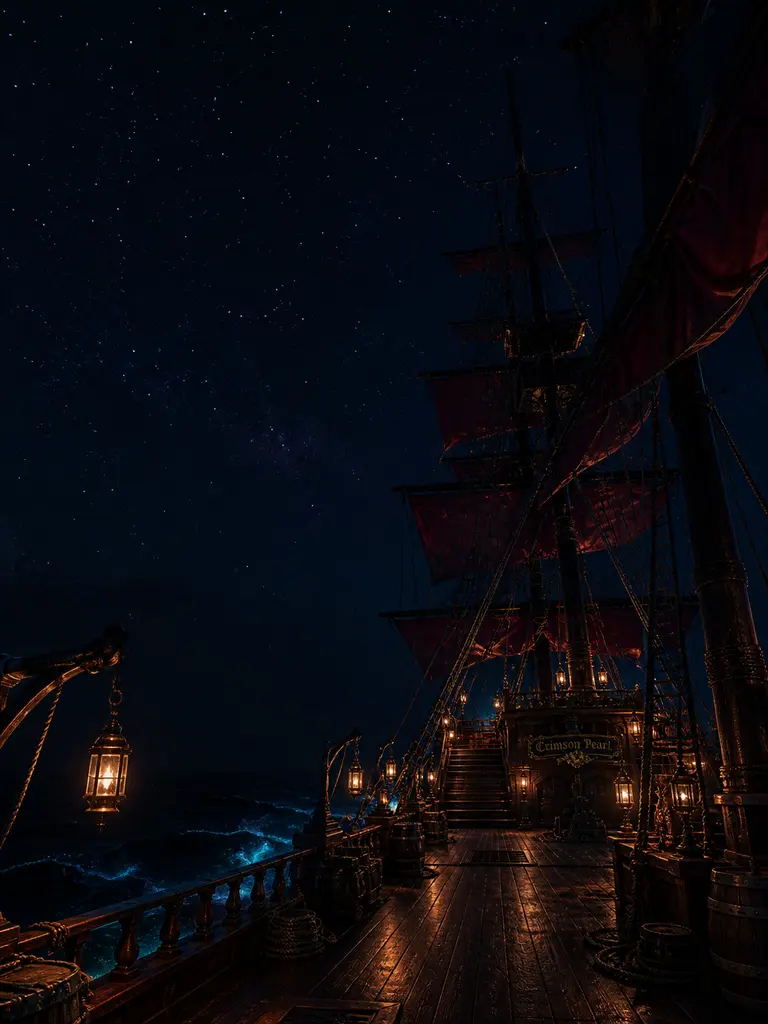
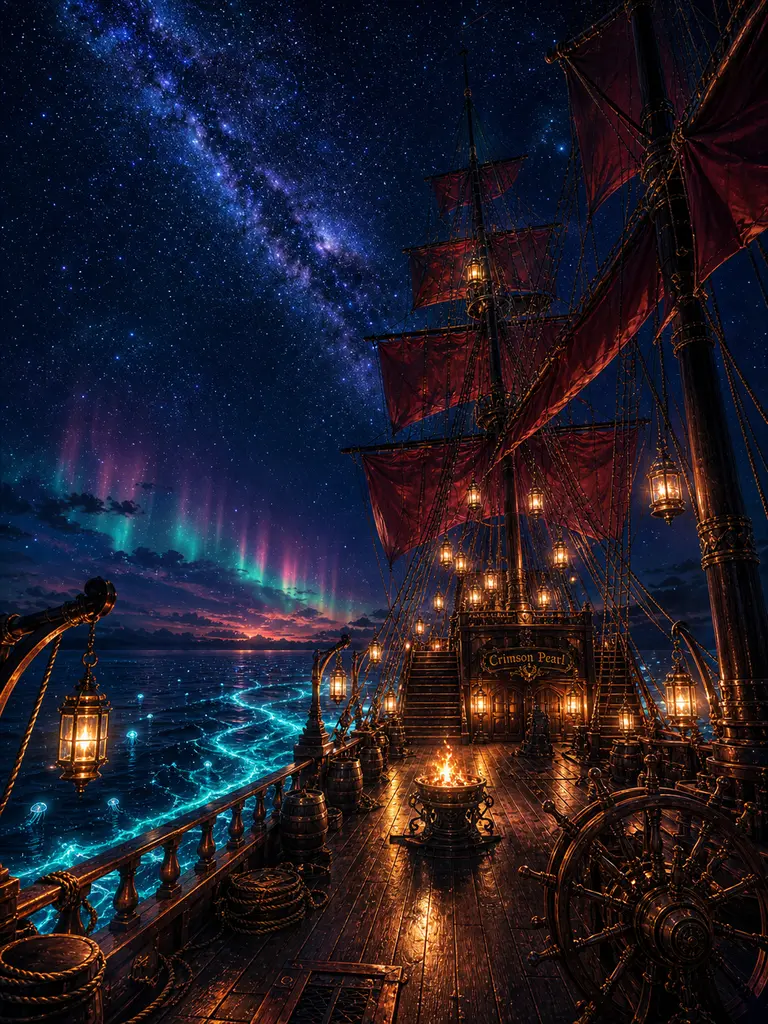
feat: crimson_pearl_night 明度UP版反映 + 未DL容量予測 + BGMシャッフル履歴 (cache buster 20260502t)
- crimson_pearl_night.png 明度UP版 (3:4 1086×1448) 反映 + thumb 再生成
- オフライン保存: HEAD requestで全URLサイズ計測 + localStorage memo化、 各カテゴリ「47.4 / 250 MB」 形式で 保存済/予測総量 表示
- マスター/カテゴリ別ボタンに容量併記 (例「📥 73件 (73 MB)」)
- BGMシャッフル: 直近5曲履歴 LRU を localStorage 永続化、 queue再生成時に最近曲を後半半分に push (野沢さん指摘「何曲か後に同じ曲」 対策)

diff --git a/script.js b/script.js
@@ -5346,7 +5346,7 @@ const STORY_LOCATION_INLINE_CONFIG = {
 
 // 画像 cache-buster 自動付与: アセット差し替え時に SW + browser cache を確実に invalidate
 // SW_VERSION や cache buster bump と合わせて IMG_CACHE_VERSION も bump すること
-const IMG_CACHE_VERSION = '20260502s';
+const IMG_CACHE_VERSION = '20260502t';
 function _appendImgCacheBuster(url) {
   if (!url || typeof url !== 'string') return url;
   if (url.includes('?v=' + IMG_CACHE_VERSION)) return url;  // 既に付いてる
@@ -5514,42 +5514,81 @@ async function _downloadAllAssets(progressCb, urlList) {
   return { done, total, succeeded, skipped };
 }
 
-// M4: cache 件数 + 容量 を計測 — 渡された URL list のうち hit したものについて、
-// 件数と合計バイト数を返す。 容量取得は Content-Length 優先、 失敗時 blob().size。
-// 並列5本で全URL検査、 全URL同時 fetch しても Cache Storage 内なので軽量。
-async function _measureCacheBytes(urls) {
-  if (!urls || urls.length === 0) return { cached: 0, bytes: 0 };
-  let cached = 0, bytes = 0;
-  const CONCURRENCY = 5;
+// M4: URL → bytes 永続化マップ。 一度測ったら localStorage に保存、 以後 instant に参照可能。
+// 静的アセットは URL 不変なら size 不変なので safely cache 可能。
+const _OFFLINE_URL_BYTES = new Map();
+const _OFFLINE_BYTES_LS_KEY = 'prism-offline-url-bytes';
+try {
+  const stored = JSON.parse(localStorage.getItem(_OFFLINE_BYTES_LS_KEY) || '{}');
+  for (const k in stored) { if (typeof stored[k] === 'number' && stored[k] > 0) _OFFLINE_URL_BYTES.set(k, stored[k]); }
+} catch (e) {}
+function _persistOfflineBytes() {
+  try {
+    const obj = {};
+    for (const [k, v] of _OFFLINE_URL_BYTES) obj[k] = v;
+    localStorage.setItem(_OFFLINE_BYTES_LS_KEY, JSON.stringify(obj));
+  } catch (e) {}
+}
+// 1 URL の容量を取得。 優先順位:
+//   (1) メモ済 _OFFLINE_URL_BYTES
+//   (2) Cache Storage に既にあれば response から Content-Length or blob().size
+//   (3) HEAD リクエスト (ネットワーク必要だが本体DLしないので軽い)
+async function _fetchUrlBytes(url) {
+  if (_OFFLINE_URL_BYTES.has(url)) return _OFFLINE_URL_BYTES.get(url);
+  let bytes = 0;
+  // (2) cache 経由
+  try {
+    const r = await caches.match(url);
+    if (r) {
+      const cl = r.headers && r.headers.get && r.headers.get('content-length');
+      if (cl && /^\d+$/.test(cl)) bytes = parseInt(cl, 10);
+      else { try { bytes = (await r.clone().blob()).size || 0; } catch (e) {} }
+    }
+  } catch (e) {}
+  // (3) HEAD ネットワーク
+  if (bytes <= 0) {
+    try {
+      const r = await fetch(url, { method: 'HEAD', credentials: 'omit', cache: 'no-store' });
+      if (r && r.ok) {
+        const cl = r.headers.get('content-length');
+        if (cl && /^\d+$/.test(cl)) bytes = parseInt(cl, 10);
+      }
+    } catch (e) {}
+  }
+  if (bytes > 0) _OFFLINE_URL_BYTES.set(url, bytes);
+  return bytes;
+}
+// urls を並列で計測 → cached件数 + cachedBytes + totalBytes(全URLの合計サイズ予測)。
+// concurrency 高め (20) で 250URLs 程度なら数秒で完了。
+async function _measureUrlsTotal(urls) {
+  if (!urls || urls.length === 0) return { cached: 0, cachedBytes: 0, totalBytes: 0 };
+  let cached = 0, cachedBytes = 0, totalBytes = 0;
+  const CONCURRENCY = 20;
   let idx = 0;
   async function worker() {
     while (idx < urls.length) {
       const myIdx = idx++;
       const url = urls[myIdx];
+      const sz = await _fetchUrlBytes(url);
+      totalBytes += sz;
       try {
         const r = await caches.match(url);
-        if (!r) continue;
-        cached++;
-        // Content-Length が立っていればそれが最も軽い
-        const cl = r.headers && r.headers.get && r.headers.get('content-length');
-        if (cl && /^\d+$/.test(cl)) {
-          bytes += parseInt(cl, 10);
-        } else {
-          // fallback: blob で実体サイズ (重いが正確)
-          try {
-            const blob = await r.clone().blob();
-            bytes += blob.size || 0;
-          } catch (e) {}
-        }
+        if (r) { cached++; cachedBytes += sz; }
       } catch (e) {}
     }
   }
   await Promise.all(Array.from({ length: CONCURRENCY }, () => worker()));
-  return { cached, bytes };
+  _persistOfflineBytes();
+  return { cached, cachedBytes, totalBytes };
 }
 // 後方互換: 件数だけ
 async function _countCachedInUrls(urls) {
-  return (await _measureCacheBytes(urls)).cached;
+  return (await _measureUrlsTotal(urls)).cached;
+}
+// 後方互換: cached + cached容量だけ (HEAD なし、 ローカルcache のみ)
+async function _measureCacheBytes(urls) {
+  const r = await _measureUrlsTotal(urls);
+  return { cached: r.cached, bytes: r.cachedBytes };
 }
 function _formatBytes(b) {
   if (!b || b <= 0) return '0 MB';
@@ -5597,43 +5636,54 @@ async function _refreshOfflineStatus(m) {
     statusEl.textContent = '';
     return;
   }
-  // カテゴリ別に並列で cache 件数 + バイト集計
-  const measures = await Promise.all(_OFFLINE_CAT_KEYS.map(k => _measureCacheBytes(cats[k])));
+  // カテゴリ別に並列で cache 件数 + 全URL予測バイト集計 (HEAD でメモ化、 2回目以降 instant)
+  const measures = await Promise.all(_OFFLINE_CAT_KEYS.map(k => _measureUrlsTotal(cats[k])));
   const breakdown = {};
-  let cached = 0, bytesTotal = 0;
+  let cached = 0, cachedBytes = 0, totalBytes = 0;
   _OFFLINE_CAT_KEYS.forEach((k, i) => {
-    breakdown[k] = { total: cats[k].length, cached: measures[i].cached, bytes: measures[i].bytes };
+    breakdown[k] = {
+      total: cats[k].length,
+      cached: measures[i].cached,
+      cachedBytes: measures[i].cachedBytes,
+      totalBytes: measures[i].totalBytes,
+    };
     cached += measures[i].cached;
-    bytesTotal += measures[i].bytes;
+    cachedBytes += measures[i].cachedBytes;
+    totalBytes += measures[i].totalBytes;
   });
   const missing = total - cached;
-  // breakdown UI 更新
+  const missingBytes = Math.max(0, totalBytes - cachedBytes);
+  // breakdown UI 更新 — 各行に「件数 / 容量 (済 + 予測総量)」 を表示
   for (const cat of _OFFLINE_CAT_KEYS) {
     const row = m.querySelector(`.settings-offline-cat[data-category="${cat}"]`);
     if (!row) continue;
     const countEl = row.querySelector('.settings-offline-cat-count');
     const sizeEl  = row.querySelector('.settings-offline-cat-size');
     const catBtn  = row.querySelector('.settings-offline-cat-btn');
-    const t = breakdown[cat].total, c = breakdown[cat].cached, miss = t - c;
+    const b = breakdown[cat];
+    const t = b.total, c = b.cached, miss = t - c;
+    const missBytes = Math.max(0, b.totalBytes - b.cachedBytes);
     if (countEl) {
-      if (t === 0) {
-        countEl.textContent = '— / —';
-      } else if (miss <= 0) {
-        countEl.innerHTML = `✅ <b>${t}</b>件`;
-      } else {
-        countEl.innerHTML = `<b>${c}</b> / <b>${t}</b>`;
-      }
+      if (t === 0) countEl.textContent = '— / —';
+      else if (miss <= 0) countEl.innerHTML = `✅ <b>${t}</b>件`;
+      else countEl.innerHTML = `<b>${c}</b> / <b>${t}</b>`;
     }
     if (sizeEl) {
-      if (t === 0 || c === 0) sizeEl.textContent = '';
-      else sizeEl.textContent = _formatBytes(breakdown[cat].bytes);
+      // 0件 → 空
+      // 全DL済 → 容量だけ (例 "47.4 MB")
+      // 部分DL → "47.4 / 250 MB"
+      // 未DL  → "≈ 250 MB"
+      if (t === 0) sizeEl.textContent = '';
+      else if (miss <= 0) sizeEl.textContent = _formatBytes(b.cachedBytes);
+      else if (c > 0) sizeEl.textContent = `${_formatBytes(b.cachedBytes)} / ${_formatBytes(b.totalBytes)}`;
+      else sizeEl.textContent = `≈ ${_formatBytes(b.totalBytes)}`;
     }
     if (catBtn) {
       if (t === 0 || miss <= 0) {
         catBtn.hidden = true;
       } else {
         catBtn.hidden = false;
-        catBtn.textContent = `📥 ${miss}件`;
+        catBtn.textContent = `📥 ${miss}件 (${_formatBytes(missBytes)})`;
       }
     }
   }
@@ -5641,7 +5691,7 @@ async function _refreshOfflineStatus(m) {
   if (missing <= 0) {
     // 全DL済み: マスター ボタン非表示
     dlBtn.style.display = 'none';
-    statusEl.innerHTML = `✅ <b>全 ${total} 件</b> 保存済み (合計 <b>${_formatBytes(bytesTotal)}</b>)`;
+    statusEl.innerHTML = `✅ <b>全 ${total} 件</b> 保存済み (合計 <b>${_formatBytes(cachedBytes)}</b>)`;
     // ストレージ使用量を併記 (取れる環境のみ)
     if (navigator.storage && navigator.storage.estimate) {
       try {
@@ -5653,14 +5703,13 @@ async function _refreshOfflineStatus(m) {
       } catch (e) {}
     }
   } else {
-    // 未DLあり: マスター ボタン表示
+    // 未DLあり: マスター ボタン表示 (容量併記)
     dlBtn.style.display = '';
+    dlBtn.textContent = `📥 全 ${missing} 件 (${_formatBytes(missingBytes)}) をまとめてDL`;
     if (cached > 0) {
-      dlBtn.textContent = `📥 全 ${missing} 件をまとめてDL`;
-      statusEl.innerHTML = `保存済み <b>${cached}</b> / <b>${total}</b> 件 (未保存 ${missing} 件 / 保存済 ${_formatBytes(bytesTotal)})`;
+      statusEl.innerHTML = `保存済み <b>${cached}</b> / <b>${total}</b> 件 (${_formatBytes(cachedBytes)} / 全 ${_formatBytes(totalBytes)})`;
     } else {
-      dlBtn.textContent = `📥 全 ${total} 件をまとめてDL`;
-      statusEl.innerHTML = `<b>${total}</b> 件のアセット (下のカテゴリ別DLでも個別保存可能)`;
+      statusEl.innerHTML = `<b>${total}</b> 件のアセット (DL予測 <b>${_formatBytes(totalBytes)}</b>)`;
     }
   }
 }
@@ -6178,6 +6227,11 @@ let bgmCurrentId = localStorage.getItem("prism-bgm-current") || BGM_LIST[0].id;
 // v1.1.3: bgmMode (sequence/random/repeat) は shuffle(bool) + repeat('off'|'all'|'one') に分離
 let bgmShuffle = localStorage.getItem("prism-bgm-shuffle") === "on";
 let bgmRepeat = localStorage.getItem("prism-bgm-repeat") || 'off'; // 'off'|'all'|'one'
+// 直近 N 曲履歴 — シャッフル queue 再生成時に「最近再生した曲が新 queue 前半に来る」 違和感を防ぐ
+const BGM_RECENT_HISTORY_SIZE = 5;
+let bgmRecentHistory = [];
+try { bgmRecentHistory = JSON.parse(localStorage.getItem("prism-bgm-recent") || '[]'); } catch (e) { bgmRecentHistory = []; }
+if (!Array.isArray(bgmRecentHistory)) bgmRecentHistory = [];
 // v1.2.3: shuffle はキュー方式 (Fisher-Yates で全曲シャッフル → 順に消化 → 枯れたら再シャッフル)。直前曲との連続反復を構造的に防ぐ
 let bgmShuffleQueue = [];
 try { bgmShuffleQueue = JSON.parse(localStorage.getItem("prism-bgm-shuffle-queue") || '[]'); } catch (e) { bgmShuffleQueue = []; }
@@ -6448,13 +6502,43 @@ function bgmToggle() {
   else playBgm(bgmCurrentId);
 }
 
-// Fisher-Yates shuffle で id 配列をランダム並べ替え。avoidFirstId が先頭に来たら2番目と入替(連続反復防止)
+// 再生開始した曲を recent history に記録 (LRU、 最新が末尾)
+function _bgmRememberPlayed(id) {
+  if (!id) return;
+  bgmRecentHistory = bgmRecentHistory.filter(x => x !== id);
+  bgmRecentHistory.push(id);
+  while (bgmRecentHistory.length > BGM_RECENT_HISTORY_SIZE) bgmRecentHistory.shift();
+  try { localStorage.setItem("prism-bgm-recent", JSON.stringify(bgmRecentHistory)); } catch (e) {}
+}
+
+// Fisher-Yates shuffle で id 配列をランダム並べ替え。
+// 改良 (2026-05-02): avoidFirstId だけでなく直近 BGM_RECENT_HISTORY_SIZE 曲を 「新queue 前半に置かない」 ようにする。
+// → 12曲中 5曲先まで「同じ曲」 が来ない感覚的均等性を確保 (野沢さん指摘「何曲か後にすぐ同じ曲が来る」)。
 function _bgmGenShuffleQueue(list, avoidFirstId) {
   const ids = list.map(b => b.id);
+  // Fisher-Yates 標準シャッフル
   for (let i = ids.length - 1; i > 0; i--) {
     const j = Math.floor(Math.random() * (i + 1));
     [ids[i], ids[j]] = [ids[j], ids[i]];
   }
+  // 直近再生した曲 + avoidFirstId を「最近曲」 set に集める
+  const recent = new Set(bgmRecentHistory);
+  if (avoidFirstId) recent.add(avoidFirstId);
+  // queue が短すぎる (recent + 1 以下) なら spreading 諦め (やってもループするだけ)
+  if (ids.length > 2 && recent.size > 0 && ids.length > recent.size) {
+    const halfPoint = Math.ceil(ids.length / 2);
+    // 前半 (0..halfPoint) を走査、 recent 入りは 後半 (halfPoint..N-1) の non-recent 位置と swap
+    for (let i = 0; i < halfPoint; i++) {
+      if (!recent.has(ids[i])) continue;
+      // 後半で recent でない位置を探す
+      let swapIdx = -1;
+      for (let k = ids.length - 1; k >= halfPoint; k--) {
+        if (!recent.has(ids[k])) { swapIdx = k; break; }
+      }
+      if (swapIdx > 0) [ids[i], ids[swapIdx]] = [ids[swapIdx], ids[i]];
+    }
+  }
+  // 追加保護: 万一先頭に avoidFirstId が来てたら 1 と swap (recent処理で大体は弾けてるはず)
   if (avoidFirstId && ids.length > 1 && ids[0] === avoidFirstId) {
     [ids[0], ids[1]] = [ids[1], ids[0]];
   }
@@ -6569,6 +6653,8 @@ bgmAudio.addEventListener('play', () => {
   if (bgmAudio.dataset.bgmPlayLogged === bgmCurrentId) return;
   bgmAudio.dataset.bgmPlayLogged = bgmCurrentId;
   _logBgmEvent('play', bgmCurrentId);
+  // ランダム queue 再生成時の repeat 防止用、 再生開始した曲を履歴に記録
+  _bgmRememberPlayed(bgmCurrentId);
 });
 bgmAudio.addEventListener('ended', () => {
   localStorage.setItem('prism-bgm-last-time', '0');

diff --git a/index.html b/index.html
@@ -24,8 +24,8 @@
 <link rel="icon" href="/images/icons/icon-32.png" type="image/png" sizes="32x32">
 <link rel="icon" href="/images/icons/icon-16.png" type="image/png" sizes="16x16">
 <link rel="apple-touch-icon" href="/images/icons/icon-180.png">
-<link rel="manifest" href="/manifest.json?v=20260502s25">
-<link rel="stylesheet" href="/style.css?v=20260502s">
+<link rel="manifest" href="/manifest.json?v=20260502t25">
+<link rel="stylesheet" href="/style.css?v=20260502t">
 <script src="https://www.gstatic.com/firebasejs/10.12.0/firebase-app-compat.js"></script>
 <script src="https://www.gstatic.com/firebasejs/10.12.0/firebase-auth-compat.js"></script>
 <script src="https://www.gstatic.com/firebasejs/10.12.0/firebase-database-compat.js"></script>
@@ -592,7 +592,7 @@ if ('serviceWorker' in navigator) {
 <audio id="bgm-home" preload="auto"></audio>
 
 <script src="https://cdn.jsdelivr.net/npm/marked@12/marked.min.js"></script>
-<script src="/script.js?v=20260502s"></script>
-<script src="/gasshuku.js?v=20260502s"></script>
+<script src="/script.js?v=20260502t"></script>
+<script src="/gasshuku.js?v=20260502t"></script>
 </body>
 </html>

diff --git a/sw.js b/sw.js
@@ -7,7 +7,7 @@
 //
 // HTML/JSON/Firebase API はキャッシュせず常にネットワーク優先 (更新即反映+認証/DBの鮮度維持)。
 
-const SW_VERSION = '20260502s';  // v1.3.2+ crimson_pearl_night 明度UP + serapia_dawn 3:4反映 + オフライン保存 5カテゴリ細分 + 容量表示
+const SW_VERSION = '20260502t';  // v1.3.2+ crimson_pearl_night 再生成反映 + 未DL容量予測表示 + BGMシャッフル直近5曲履歴で同曲repeat防止
 const STATIC_CACHE = `prismaera-static-${SW_VERSION}`;
 const BGM_CACHE    = `prismaera-bgm-${SW_VERSION}`;
 const LOC_CACHE    = `prismaera-loc-${SW_VERSION}`;
